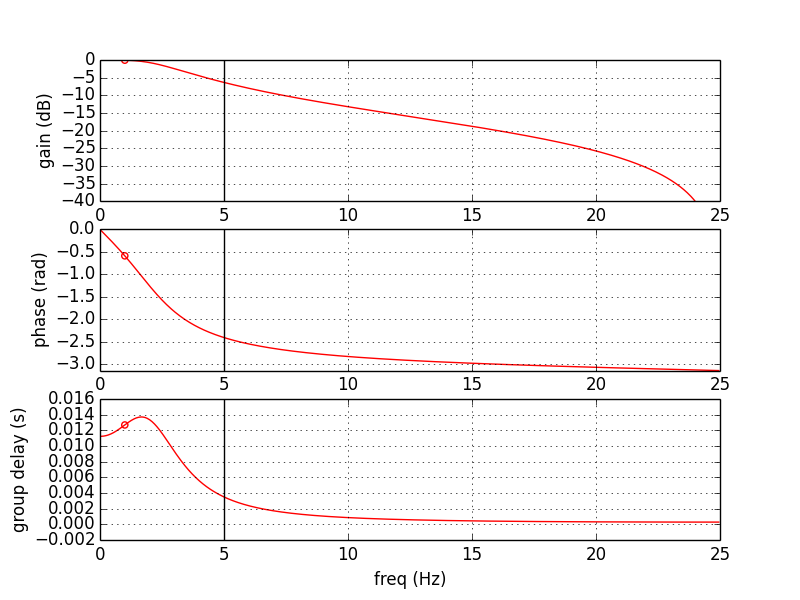
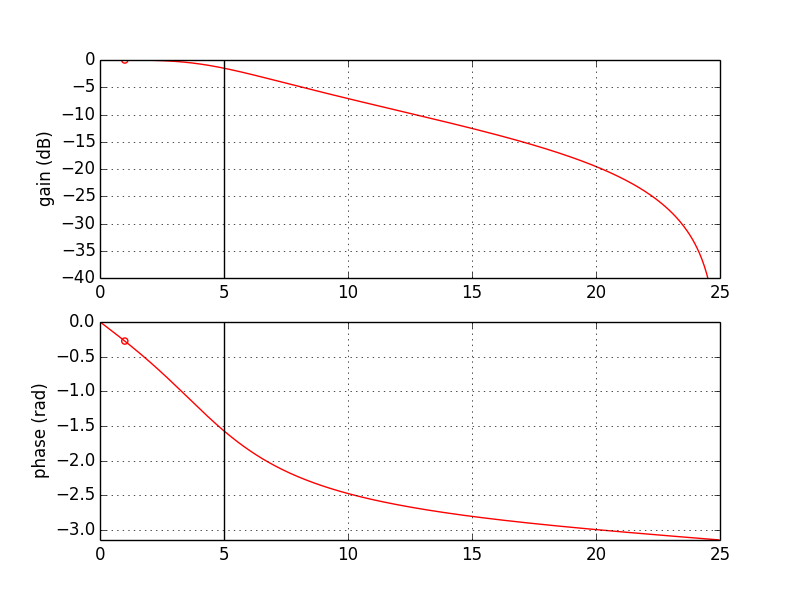
remove computation of group delay by derivative of phase delay, since it seems like the story is more complicated than this.

diff --git a/iir_example.py b/iir_example.py
@@ -42,18 +42,16 @@ def make_timedomain_plots():
     response_freq = w / (2 * np.pi) * sample_freq
     response_amplitude = np.abs(h)
     response_phase = np.unwrap(np.angle(h))
-    response_group_delay = -np.diff(response_phase) / np.diff(response_freq) * dt
 
-    # Compute the expected gain, phase, and group delay given the signal that we're providing as input, so we can mark
-    # them on the graph.
+    # Compute the expected gain and phase given the signal that we're providing as input, so we can mark them on the
+    # graph.
     expected_gain = np.interp(signal_freq, response_freq, response_amplitude)
     expected_phase = np.interp(signal_freq, response_freq, response_phase)
-    expected_group_delay = np.interp(signal_freq, response_freq[1:], response_group_delay)
 
     # Plot the frequency response.
     plt.figure()
 
-    plt.subplot(311)
+    plt.subplot(211)
     plt.plot(response_freq, 10 * np.log10(response_amplitude), color='red')
     plt.axvline(cutoff_freq, color='black')
     plt.scatter([signal_freq], [10 * np.log10(expected_gain)], facecolors='none', edgecolors='red')
@@ -62,22 +60,13 @@ def make_timedomain_plots():
     plt.ylabel('gain (dB)')
     plt.grid()
 
-    plt.subplot(312)
+    plt.subplot(212)
     plt.plot(response_freq, response_phase, color='red')
     plt.axvline(cutoff_freq, color='black')
     plt.scatter([signal_freq], [expected_phase], facecolors='none', edgecolors='red')
     plt.xlim(0, sample_freq / 2)
     plt.ylim(-np.pi, 0)
     plt.ylabel('phase (rad)')
-    plt.grid()
-
-    plt.subplot(313)
-    plt.plot(response_freq[1:], response_group_delay, color='red')
-    plt.axvline(cutoff_freq, color='black')
-    plt.scatter([signal_freq], [expected_group_delay], facecolors='none', edgecolors='red')
-    plt.xlim(0, sample_freq / 2)
-    plt.xlabel('freq (Hz)')
-    plt.ylabel('group delay (s)')
     plt.grid()
 
     plt.savefig('plots/example-filter-design.png')
